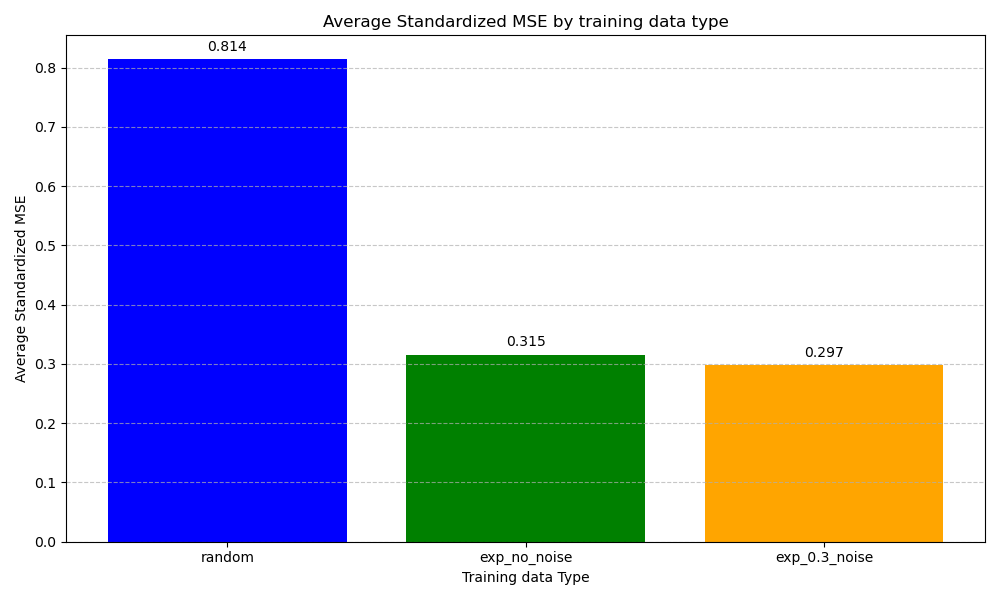
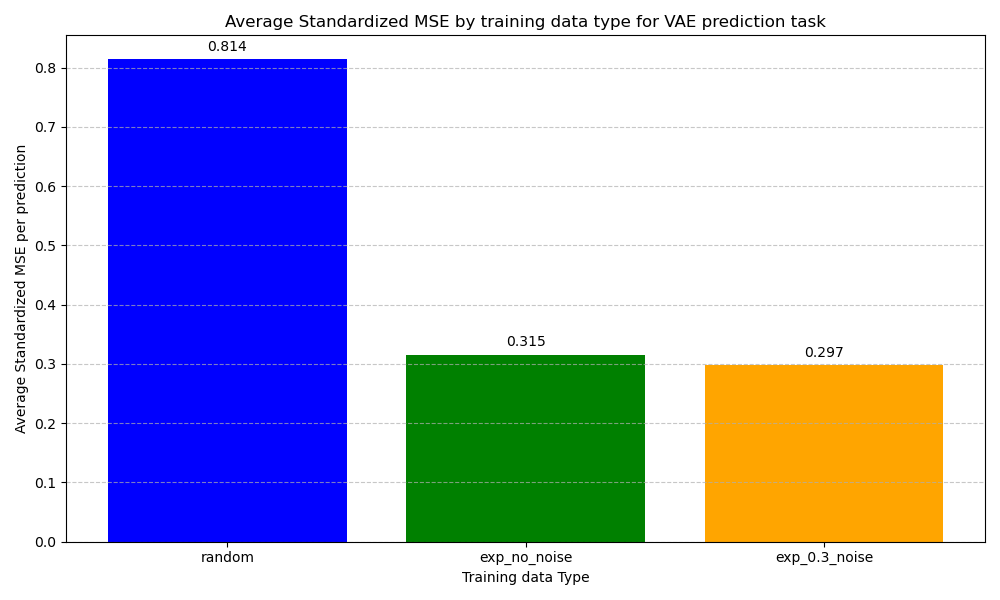
timing measure

Changed region(s): [[0.217, 0.0, 0.837, 0.06], [0.0, 0.24, 0.031, 0.72]]

diff --git a/VAE_PPO_train/mp_batch_train.py b/VAE_PPO_train/mp_batch_train.py
@@ -1,6 +1,9 @@
 import os
 import torch
 import torch.multiprocessing as mp
+import time
+import json
+from datetime import datetime, timedelta
 
 #from VAE_PPO_train.model_batch_train import vae_model_path
 from configs import eval_config
@@ -81,6 +84,9 @@ def worker(process_id: int,
         #modifiy config_module
         update_config(vae_config)
 
+        # Start timing
+        start_time = time.time()
+
         # Run training
         train(
             vae_model_path=vae_model_path,
@@ -89,6 +95,26 @@ def worker(process_id: int,
             total_timesteps=total_timesteps,
             seed=seed
         )
+
+        # End timing
+        end_time = time.time()
+        training_time = end_time - start_time
+
+        # Save timing data to a JSON file in the process directory
+        timing_info = {
+            'process_id': process_id,
+            'start_time': datetime.fromtimestamp(start_time).strftime("%Y-%m-%d %H:%M:%S"),
+            'end_time': datetime.fromtimestamp(end_time).strftime("%Y-%m-%d %H:%M:%S"),
+            'training_time_seconds': training_time,
+            'training_time_formatted': str(timedelta(seconds=int(training_time))),
+        }
+
+        # Write timing data to process directory
+        timing_file = os.path.join(process_log_dir, "training_time.json")
+        with open(timing_file, 'w') as f:
+            json.dump(timing_info, f, indent=4)
+
+
 
     except Exception as e:
         print(f"Error in process {process_id}: {str(e)}")
@@ -206,7 +232,7 @@ if __name__ == "__main__":
     safe_batch_train(vae_name="vae_exp_0.3noise_10ep_config_v1_quad_input_small_latent_2",
                      vae_config="VAE_config_config_v1_quad_input_small_latent.txt",
                      vae_path=vae_path, vae_version=vae_version, in_out=in_out, kl=kl)
-
+    '''
     safe_batch_train(vae_name="vae_exp_0.3noise_10ep_config_v1_quad_input_small_latent_v2_2",
                      vae_config="VAE_config_config_v1_quad_input_small_latent_v2.txt",
                      vae_path=vae_path, vae_version=vae_version, in_out=in_out, kl=kl)
@@ -332,7 +358,7 @@ if __name__ == "__main__":
     safe_batch_train(vae_name="vae_exp_no_noise_10ep_config_v1_hexa_input_large_latent_1",
                      vae_config="VAE_config_config_v1_hexa_input_large_latent.txt",
                      vae_path=vae_path, vae_version=vae_version, in_out=in_out, kl=kl)
-
+    '''
     # Define log file path
     log_dir = os.path.join(script_dir, "training_log")
     os.makedirs(log_dir, exist_ok=True)  # Ensure the directory exists

diff --git a/model_eval/average_eval.py b/model_eval/average_eval.py
@@ -5,6 +5,30 @@ import os
 
 base_dir = os.path.dirname(os.path.abspath(__file__))
 
+#######################test labels ###############################
+def know_labels (base_log_dir = os.path.join(base_dir, "..", "VAE_PPO_train", "logs", "batch2"))  :
+    log_dirs = []
+    for root, dirs, files in os.walk(base_log_dir):
+        if "eval" in dirs:  # If "eval" is a subdirectory at this level
+            log_dirs.append(os.path.join(root, "eval"))  # Append the full path
+    # log_dirs = [
+    #    "../VAE_PPO_train/logs/logs_20000_vae_15000_vae_offline_expert_20250114_165817_20250114_172631/eval/",
+    #    "../VAE_PPO_train/logs/logs_20000_vae_offline_expert_20250114_160136/eval/",
+    #    "../VAE_PPO_train/logs/logs_20000_vae_offline_expert_20250114_165649/eval/",
+    # Add more paths as needed
+    # ]
+
+    # Initialize storage for rewards and timesteps
+    all_rewards = []
+    timesteps = None
+
+    # Load rewards from each log
+    for log_dir in log_dirs:
+        eval_file = os.path.join(log_dir, "evaluations.npz")
+        data = np.load(eval_file)
+        print(data.files)
+
+
 def vae_ppo_average (output_file,base_log_dir = os.path.join(base_dir, "..", "VAE_PPO_train", "logs", "batch2")) :
     # Recursively find all "eval" directories
     log_dirs = []
@@ -92,6 +116,7 @@ def ppo_average(output_file,base_log_dir = os.path.join(base_dir,"..", "PPO", "l
 
 
 if __name__ == "__main__":
-    for i in range(5,10) :
-        ppo_average(output_file=os.path.join(base_dir,"logs", "PPO" , f"averaged_evaluation_rand_env_seed10_100k_{i}.npz" ),base_log_dir=os.path.join(base_dir,"..", "PPO", "logs" , "eval", f"batch_eval_100k_{i}"))
+    know_labels(base_log_dir=os.path.join(base_dir,"..", "PPO", "logs" , "eval", f"batch_eval_100k_6"))
+    #for i in range(5,10) :
+       # ppo_average(output_file=os.path.join(base_dir,"logs", "PPO" , f"averaged_evaluation_rand_env_seed10_100k_{i}.npz" ),base_log_dir=os.path.join(base_dir,"..", "PPO", "logs" , "eval", f"batch_eval_100k_{i}"))
     #vae_ppo_average(output_file= os.path.join("logs", "VAE_PPO" ,"V3.12", "averaged_evaluation_batch_V3.12_kl=0.002_100k_seed10.npz") ,base_log_dir=os.path.join(base_dir,"..", "VAE_PPO_train", "logs" , "batch_V3.12_kl=0.002_100k"))

diff --git a/PPO/mp_PPO_batch_train.py b/PPO/mp_PPO_batch_train.py
@@ -8,6 +8,9 @@ from configs.save_config import save_eval_config
 from Wrappers.RandomStartLunarLander import  RandomStartLunarLander
 import psutil
 from typing import Optional
+import time
+import json
+from datetime import datetime, timedelta
 
 
 def worker(process_id: int,
@@ -32,6 +35,9 @@ def worker(process_id: int,
         process_log_dir = os.path.join(log_batch_dir, f"process_{process_id}")
         os.makedirs(process_log_dir, exist_ok=True)
 
+        # Start timing
+        start_time = time.time()
+
         # Run training
         train_ppo(
             log_batch_dir=process_log_dir,
@@ -39,6 +45,26 @@ def worker(process_id: int,
             seed=seed,
             env_wrapper=env_wrapper
         )
+
+        # End timing
+        end_time = time.time()
+        training_time = end_time - start_time
+
+        # Save timing data to a JSON file in the process directory
+        timing_info = {
+            'process_id': process_id,
+            'start_time': datetime.fromtimestamp(start_time).strftime("%Y-%m-%d %H:%M:%S"),
+            'end_time': datetime.fromtimestamp(end_time).strftime("%Y-%m-%d %H:%M:%S"),
+            'training_time_seconds': training_time,
+            'training_time_formatted': str(timedelta(seconds=int(training_time))),
+        }
+
+        # Write timing data to process directory
+        timing_file = os.path.join(process_log_dir, "training_time.json")
+        with open(timing_file, 'w') as f:
+            json.dump(timing_info, f, indent=4)
+
+
 
     except Exception as e:
         print(f"Error in process {process_id}: {str(e)}")

diff --git a/VAE_Latent_Space_Eval/VAE_score/VAE_score_plot.py b/VAE_Latent_Space_Eval/VAE_score/VAE_score_plot.py
@@ -63,8 +63,8 @@ bars = plt.bar(categories, values, color=['blue', 'green', 'orange'])
 
 # Add labels and title
 plt.xlabel('Training data Type')
-plt.ylabel('Average Standardized MSE')
-plt.title('Average Standardized MSE by training data type')
+plt.ylabel('Average Standardized MSE per prediction')
+plt.title('Average Standardized MSE by training data type for VAE prediction task')
 
 # Add value labels on top of bars
 for bar in bars:
